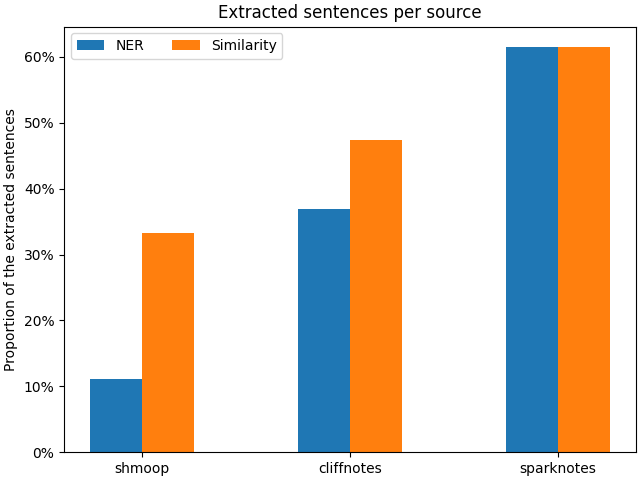
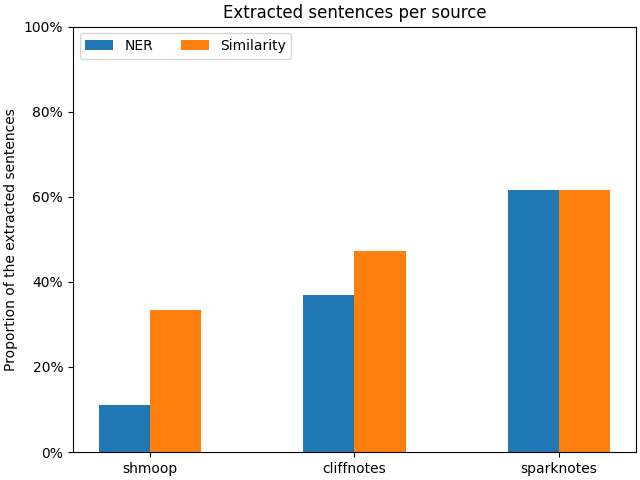
ADDED original evaluation

diff --git a/small_experiment.py b/small_experiment.py
@@ -10,12 +10,14 @@ import json
 import matplotlib.pyplot as plt
 import numpy as np
 from collections import defaultdict
+from transformers import AutoModelForSeq2SeqLM, AutoTokenizer, pipeline
+from summac.model_summac import  SummaCConv
 
-# TODO: store sentence similarity in a file
 # TODO: Daten speichern
 # TODO: in Funktionen auslagern
 # TODO: in den Klassen unterbringen
 # TODO: create_ner_recaps über mapping ausführen
+# TODO: get_words deletes spaces
 def get_words(ners):
     words = set()
 
@@ -103,29 +105,65 @@ def evaluate(gold_file, result_file):
     with open(result_file, 'r') as file:
         res = json.load(file)
 
-    bleu_scorer = Bleu(n=4)
-    # # scorer += (hypo[0], ref1)   # hypo[0] = 'word1 word2 word3 ...'
-    # #                                 # ref = ['word1 word2 word3 ...', 'word1 word2 word3 ...']
-    bleu_score, bleu_scores = bleu_scorer.compute_score(gts, res)
+    # bleu_scorer = Bleu(n=4)
+    # # # scorer += (hypo[0], ref1)   # hypo[0] = 'word1 word2 word3 ...'
+    # # #                                 # ref = ['word1 word2 word3 ...', 'word1 word2 word3 ...']
+    # bleu_score, bleu_scores = bleu_scorer.compute_score(gts, res)
 
-    print('bleu = %s' % bleu_score)
+    #print('bleu = %s' % bleu_score)
 
-    cider_scorer = Cider()
-    # scorer += (hypo[0], ref1)
-    (cider_score, cider_scores) = cider_scorer.compute_score(gts, res)
-    print('cider = %s' % cider_score)
+    # cider_scorer = Cider()
+    # # scorer += (hypo[0], ref1)
+    # (cider_score, cider_scores) = cider_scorer.compute_score(gts, res)
+    # print('cider = %s' % cider_score)
 
     # meteor_scorer = Meteor()
     # meteor_score, meteor_scores = meteor_scorer.compute_score(gts, res)
     # print('meteor = %s' % meteor_score)
 
-    rouge_scorer = Rouge()
-    rouge_score, rouge_scores = rouge_scorer.compute_score(gts, res)
-    print('rouge = %s' % rouge_score)
+    # rouge_scorer = Rouge()
+    # rouge_score, rouge_scores = rouge_scorer.compute_score(gts, res)
+    # print('rouge = %s' % rouge_score)
 
-    # spice_scorer = Spice()
-    #spice_score, spice_scores = spice_scorer.compute_score(gts, res)
-    #print('spice = %s' % spice_score)
+    spice_scorer = Spice()
+    spice_score, spice_scores = spice_scorer.compute_score(gts, res)
+    print('spice = %s' % spice_score)
+
+def summacoz(tokenizer, model):
+    pipe = pipeline("text2text-generation", 
+                    model=model, 
+                    tokenizer=tokenizer)
+
+    PROMPT = """Is the hypothesis true based on the premise? Give your explanation afterwards.
+
+    Premise: 
+    {article}
+
+    Hypothesis:
+    {summary}
+    """
+
+    article = "Goldfish are being caught weighing up to 2kg and koi carp up to 8kg and one metre in length."
+    summary = "Goldfish are being caught weighing up to 8kg and one metre in length."
+
+    print(pipe(PROMPT.format(article=article, summary=summary), 
+            do_sample=False, 
+            max_new_tokens=512))
+    """[{'generated_text': '\
+    No, the hypothesis is not true. \
+    - The hypothesis states that goldfish are being caught weighing up to 8kg and one metre in length. \
+    - However, the premise states that goldfish are being caught weighing up to 2kg and koi carp up to 8kg and one metre in length. \
+    - The difference between the two is that the koi carp is weighing 8kg and the goldfish is weighing 2kg.'}]"""
+
+def summacconf(model):
+    document = """Scientists are studying Mars to learn about the Red Planet and find landing sites for future missions.
+    One possible site, known as Arcadia Planitia, is covered instrange sinuous features.
+    The shapes could be signs that the area is actually made of glaciers, which are large masses of slow-moving ice.
+    Arcadia Planitia is in Mars' northern lowlands."""
+
+    summary1 = "There are strange shape patterns on Arcadia Planitia. The shapes could indicate the area might be made of glaciers. This makes Arcadia Planitia ideal for future missions."
+    score_conv1 = model.score([document], [summary1])
+    print("[Summary 1] SummacConv score: %.3f" % (score_conv1["scores"][0])) # [Summary 1] SummaCZS Score: 0.582; SummacConv score: 0.536
 
 def kept_positions(summs, recaps):
     values = [0, 0, 0]
@@ -216,21 +254,24 @@ def vis_num_kept(kept_sources, names):
     ax.set_title('Extracted sentences per source')
     ax.set_xticks(x + width/2, names)
     ax.legend(loc='upper left', ncols=2)
+    ax.set_ylim(0, top= 1)
     y_value=['{:.0%}'.format(x) for x in ax.get_yticks()]
     ax.set_yticklabels(y_value)
-    #ax.set_ylim(0, 1)
 
     plt.show()
 
 
 
-test_recaps = RecapData("./data/small_validation.jsonl")
-dataset = test_recaps.mapped_summs["validation"]
+#test_recaps = RecapData("./data/small_validation.jsonl")
+#dataset = test_recaps.mapped_summs["validation"]
 
 #sim = SentenceSimilarity()
 #create_sentence_recap(test_recaps, sim, 0.2)
 
 # Evaluation 
+
+print("\nOriginal summary:\n")
+evaluate('./small_gld_one.json', './small_prev.json')
 
 # print("\nNER:\n")
 # evaluate('./small_gld.json', './small_ner.json')
@@ -238,8 +279,20 @@ dataset = test_recaps.mapped_summs["validation"]
 # print("\nSentence Similarity:\n")
 # evaluate('./small_gld.json', './small_sim.json')
 
-print("\nLLM:\n")
-evaluate('./small_gld.json', './small_llm.json')
+#print("\nLLM:\n")
+#evaluate('./small_gld.json', './small_llm.json')
+
+# SummaCoz
+# tokenizer = AutoTokenizer.from_pretrained("google/flan-t5-xxl")
+# model = AutoModelForSeq2SeqLM.from_pretrained("nkwbtb/flan-t5-11b-SummaCoz",
+#                                             torch_dtype="auto",
+#                                             device_map="auto")
+# summacoz(tokenizer, model)
+
+# SummaCConv
+# model_conv = SummaCConv(models=["vitc"], bins='percentile', granularity="sentence", nli_labels="e", device="cpu", start_file="default", agg="mean")
+
+# summacconf(model_conv)
 
 # Visualizations
 
@@ -251,6 +304,8 @@ evaluate('./small_gld.json', './small_llm.json')
 # ner_recaps = [recap[0] for recap in ner_res.values()]
 # sim_recaps = [recap[0] for recap in sim_res.values()]
 # #print("ner values: ", [recap[0] for recap in ner_res.values()])
+
+# Positions of kept sentences
 # summs = [summ for inst in dataset for summ in inst["previous summary"][:3]]
 # #print("summs:", summs)
 # #print("recaps:", recaps)
@@ -258,9 +313,11 @@ evaluate('./small_gld.json', './small_llm.json')
 # #print("dataset prev", dataset["previous summary"])
 # #positions = {"NER": kept_positions(summs, ner_recaps), "Similarity": kept_positions(summs, sim_recaps)} 
 # #vis_pos(positions)
-# src_names = ["shmoop","cliffnotes","sparknotes"]
 
-# kept_sources = {"NER": num_kept_sents(dataset, ner_recaps, src_names), "Similarity": num_kept_sents(dataset, sim_recaps, src_names)}
+# Proportion of kept sentences
+#src_names = ["shmoop","cliffnotes","sparknotes"]
+
+#kept_sources = {"NER": num_kept_sents(dataset, ner_recaps, src_names), "Similarity": num_kept_sents(dataset, sim_recaps, src_names)}
 # #print("kept_sources", kept_sources)
 
-# vis_num_kept(kept_sources, src_names)
+#vis_num_kept(kept_sources, src_names)

diff --git a/README.md b/README.md
@@ -11,17 +11,20 @@
 - new dataset
 - model
 - evaluation
-    - semantic based metric (spice zum laufen kriegen)
+    - semantic based metric (SummaC zum laufen kriegen) -> summac für Gemma auch für das previous chapter anwenden?  
+    - meteor zum laufen kriegen
     - statistische Signifikanz
-- compare with existing LLM
+    - SummaC to check for Gemma spoilers
+- good sentence splitting
+- develop hyperparameters: similarity treshold, #NERs
+- experiment on test dataset
 
 ## Referat
-- Gemma 2 paper lesen (no instruction: https://huggingface.co/google/gemma-2-2b, instruction: https://huggingface.co/google/gemma-2-2b-it)
+- spice zum laufen kriegen
+- SummaC paper lesen
 - NER paper lesen
 - Sentence Modell paper lesen
-- herausfinden, ob Gemma Projekt Gutenberg kennt
-- Folien
-- semantic based metric (spice zum laufen kriegen)
+- semantic based metric (spice/summaqa zum laufen kriegen)
 - statistische Signifikanz
 
 # Notes
@@ -51,6 +54,12 @@ environment:
 - using the next chapter summary as gold reference is not correct because it is no recap
 - LLM für Zusammenfassung:
 -> Ist die Information korrekt?
+- Similarity model: maximum input length of 128
+- BookSum problems: 
+-> data contamenation (but Gemma is filtered for evaluation datasets)
+-> monolingual: English (Gemma also is mostly trained on english data)
+-> quality of the summaries
+-> harmful content in old books
 
 ## Experiment Setup
 ### Models
@@ -58,7 +67,7 @@ environment:
 -> NER
 -> DistilBERT
 - Abstractive
--> Gemma-2-it
+-> Gemma-2-2b-it
 
 ### Evaluation
 - No Bertscore because it depends on BERT embeddings and measures the similarity -> Not feasible to compare with the sentence similarity DistilBERT model 
